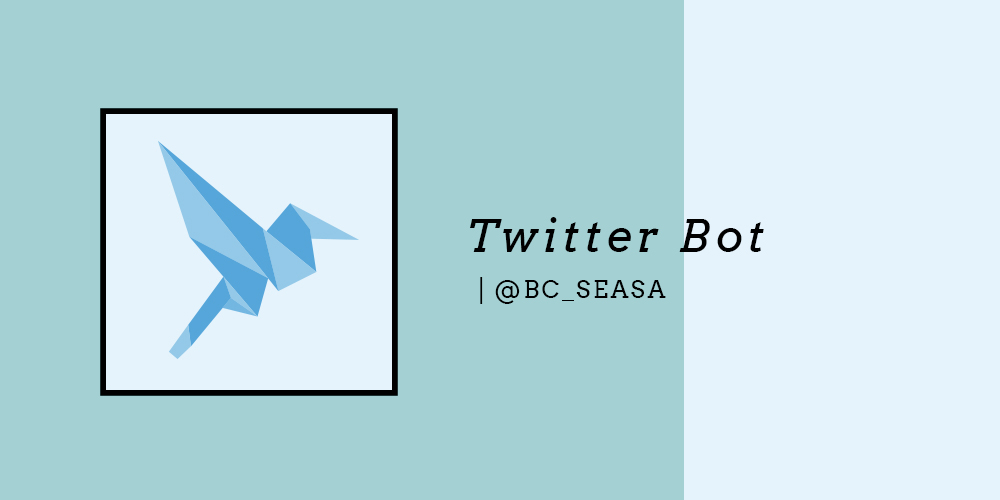
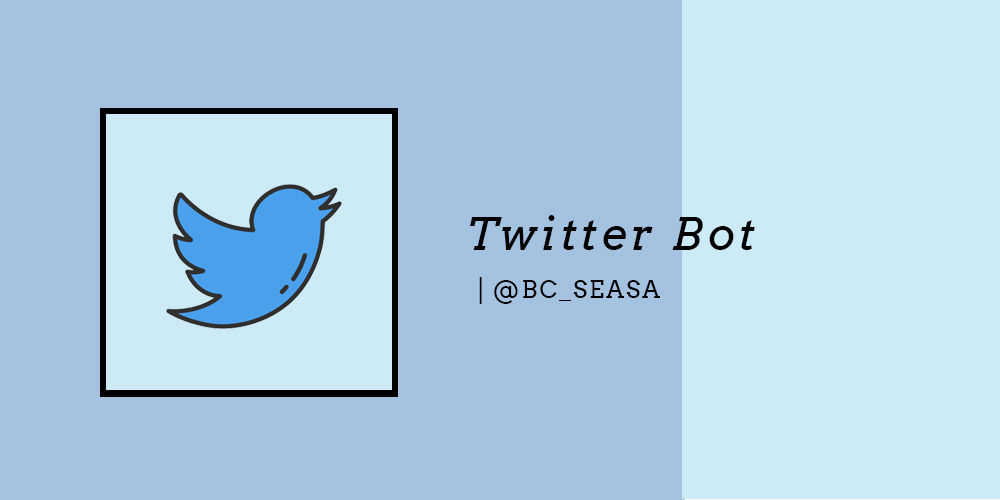
removed relevant links and changed twitter bot tile

diff --git a/projects.html b/projects.html
@@ -42,7 +42,7 @@
             <li><a href="./index.html">Home</a></li>
             <li><a href="./about.html">About</a></li>
             <li><a href="./projects.html">Projects</a></li>
-            <li><a href="./construction.html">Snapshots</a></li>
+            <!-- <li><a href="./construction.html">Snapshots</a></li> -->
 					</ul>
 				</nav>
 			</div>
@@ -58,7 +58,7 @@
         <li><a href="./index.html">Home</a></li>
         <li><a href="./about.html">About</a></li>
         <li><a href="./projects.html">Projects</a></li>
-        <li><a href="./construction.html">Snapshots</a></li>
+        <!-- <li><a href="./construction.html">Snapshots</a></li> -->
       </ul>
     </div>
 
@@ -79,7 +79,7 @@
         </div>
         <div class="circle c2" data-emergence="hidden">
           <div class="circle__inner">
-            <img src=".\assets\projects\twitterBot.jpg" alt="Audrey Setiadarma" class="project-card"/>
+            <img src=".\assets\projects\twitterbot.jpg" alt="Audrey Setiadarma" class="project-card"/>
           </div>
         </div>
         <div class="circle c3" data-emergence="hidden">

diff --git a/about.html b/about.html
@@ -59,7 +59,7 @@
         <li><a href="./index.html">Home</a></li>
         <li><a href="./about.html">About</a></li>
         <li><a href="./projects.html">Projects</a></li>
-        <li><a href="./construction.html">Snapshots</a></li>
+        <!-- <li><a href="./construction.html">Snapshots</a></li> -->
       </ul>
     </div>
 
@@ -95,8 +95,8 @@
         <br /><br />
         Ultimately, <b>I am a work in progress</b>. I am always learning more about the world and about myself everyday.
         <br  />
-        <span><a href="./construction.html">Resume</a></span>
-        <span><a href="./construction.html">Timeline</a></span>
+        <!-- <span><a href="./construction.html">Resume</a></span>
+        <span><a href="./construction.html">Timeline</a></span> -->
       </p>
 
 

diff --git a/index.html b/index.html
@@ -42,7 +42,7 @@
             <li><a href="./index.html">Home</a></li>
             <li><a href="./about.html">About</a></li>
             <li><a href="./projects.html">Projects</a></li>
-            <li><a href="./construction.html">Snapshots</a></li>
+            <!-- <li><a href="./construction.html">Snapshots</a></li> -->
 					</ul>
 				</nav>
 			</div>
